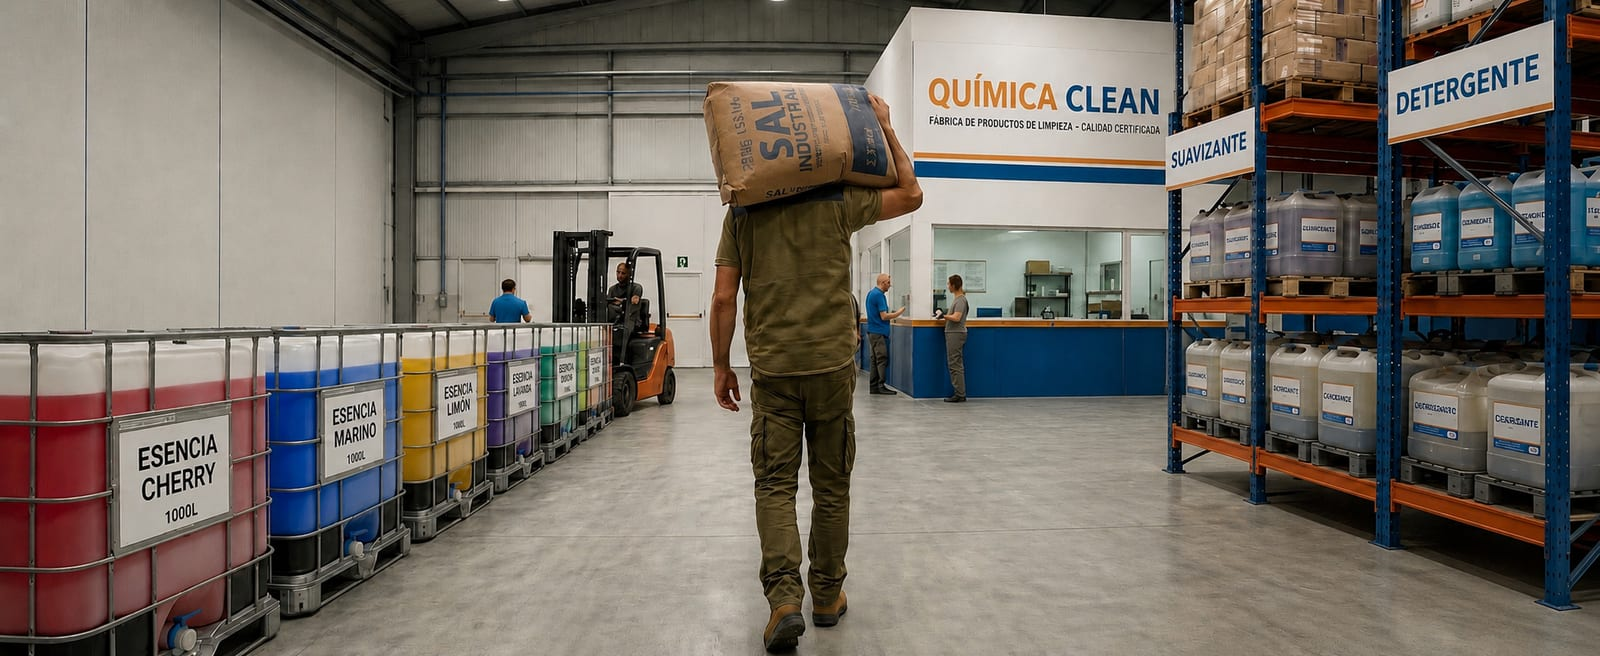
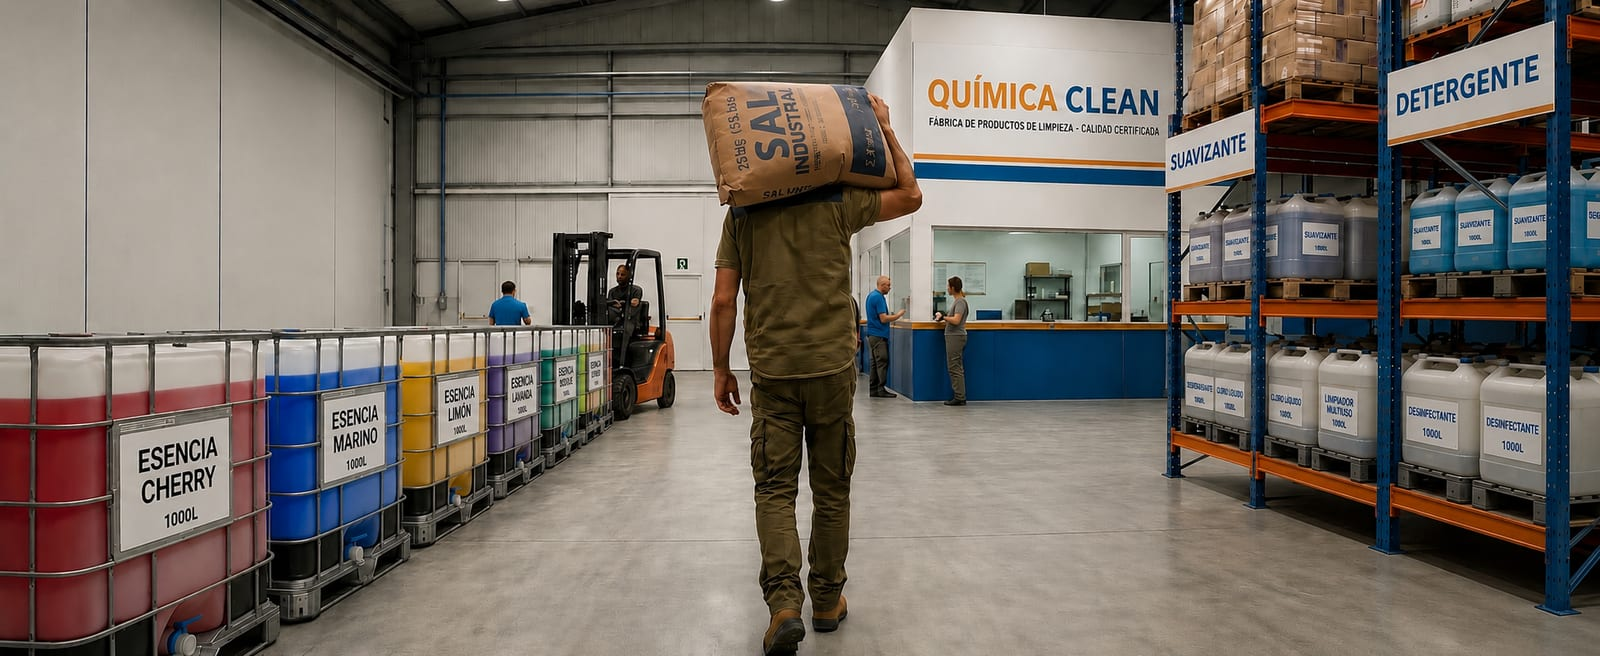
fix: new hero-3 image + show full landscape on mobile for slides 2/3
The user added a new hero-3 (PNG 2.3 MB) — recompressed to 163 KB JPEG at 1600 px width, replacing the prior file. Same warehouse scene, just lighter.

For mobile slides 2 (truck) and 3 (warehouse), switch object-fit from cover to contain so the full landscape image is visible (was getting ~30% horizontal slice). Slide 1 keeps cover since it is an abstract foam texture. The bg div now has a dark navy fallback color so the contained image sits over the brand navy and the dark gradient overlay blends seamlessly with the unfilled bars.

Changed region(s): [[0.0, 0.0, 1.0, 1.0]]

diff --git a/app/components/Hero.tsx b/app/components/Hero.tsx
@@ -10,6 +10,7 @@ type Slide = {
   bg: string
   bgPosition?: string
   bgPositionMobile?: string
+  bgFitMobile?: 'cover' | 'contain'
   eyebrow: string
   line1: string
   line2: string
@@ -36,7 +37,8 @@ const slides: Slide[] = [
   },
   {
     bg: '/hero-2.jpg',
-    bgPositionMobile: '40% center',
+    bgPositionMobile: 'center',
+    bgFitMobile: 'contain',
     eyebrow: 'Envíos a todo el país · Tucumán, Argentina',
     line1: 'Llegamos a',
     line2: 'TODO EL',
@@ -54,6 +56,7 @@ const slides: Slide[] = [
     bg: '/hero-3.jpg',
     bgPosition: 'center 8%',
     bgPositionMobile: 'center',
+    bgFitMobile: 'contain',
     eyebrow: 'Para fabricantes · Tucumán, Argentina',
     line1: 'Materia prima',
     line2: 'DE CALIDAD',
@@ -136,7 +139,7 @@ export function Hero() {
       }}>
 
         {/* Fondo */}
-        <div key={`bg-${current}`} style={{ position: 'absolute', inset: 0, zIndex: 0, animation: 'bgFade 0.6s ease forwards' }}>
+        <div key={`bg-${current}`} style={{ position: 'absolute', inset: 0, zIndex: 0, background: '#0a1a3a', animation: 'bgFade 0.6s ease forwards' }}>
           <Image
             src={sl.bg}
             alt=""
@@ -145,7 +148,7 @@ export function Hero() {
             priority
             sizes="100vw"
             style={{
-              objectFit: 'cover',
+              objectFit: isMobile ? (sl.bgFitMobile ?? 'cover') : 'cover',
               objectPosition: isMobile
                 ? (sl.bgPositionMobile ?? 'center')
                 : (sl.bgPosition ?? 'center'),
